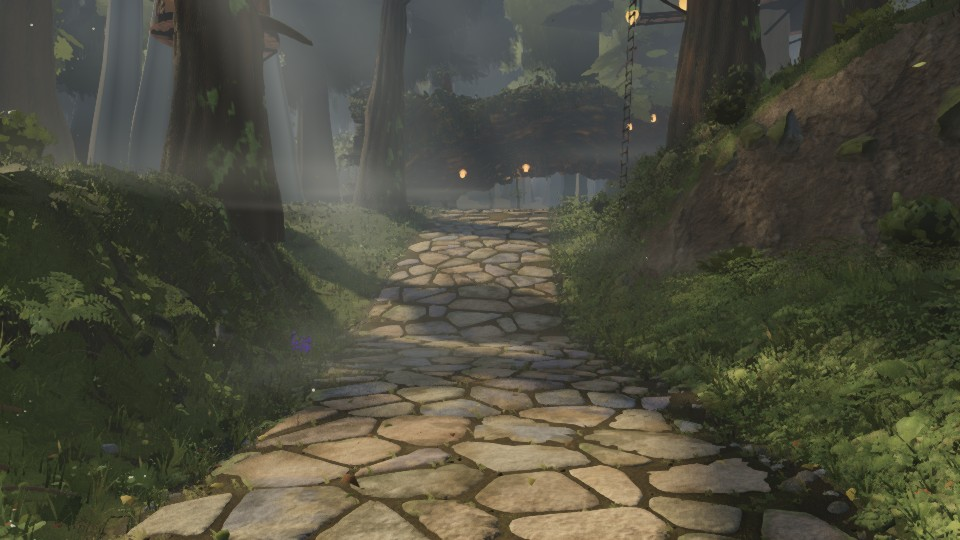
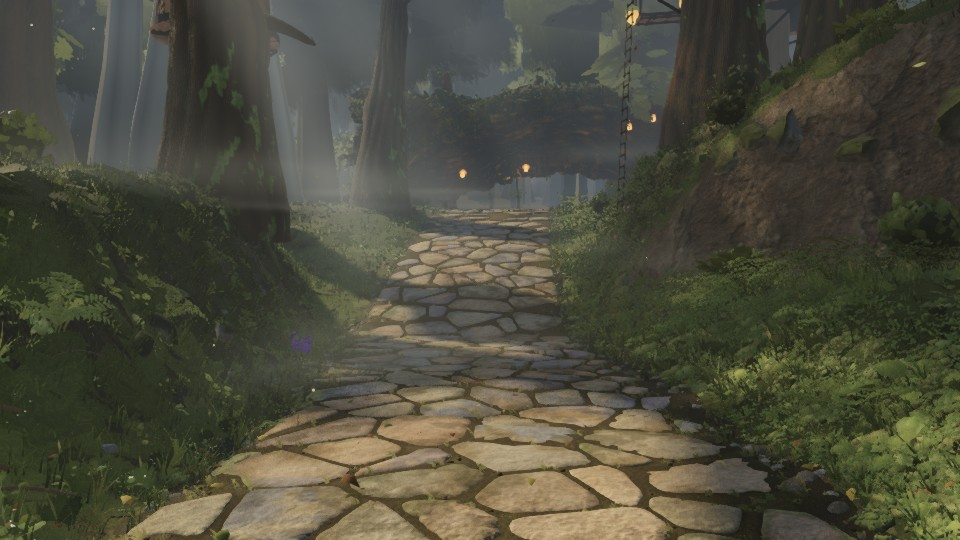
evidence: lane 3 final — the sheets re-rendered with the wider basal flare, and the hero views re-measured after the whole branch (A 0.36, B 0.83, C 0.17, D 1.00, F 0.35 mean levels; B and D are the two frames worth a look before merging, and every part of the move is column / emergent / giant bark)

diff --git a/art/environment/squad3-2026-09-23/README.md b/art/environment/squad3-2026-09-23/README.md
@@ -101,17 +101,34 @@ after pass 2, then after the whole branch:
 
 | view | mean \|Δ\| pass 2 | mean \|Δ\| final | px > 8 (final) | mean rgb (head → final) |
 | --- | --- | --- | --- | --- |
-| A_stairs | 0.08 | 0.33 | 1.05 % | 91.11/87.33/67.72 → 90.98/87.22/67.62 |
-| B_house | 0.26 | 0.74 | 2.76 % | 85.49/83.03/65.95 → 85.15/82.73/65.67 |
-| C_lookback | 0.09 | 0.15 | 0.69 % | 85.27/81.37/62.70 → 85.11/81.24/62.57 |
-| D_log | 0.48 | 0.88 | 3.47 % | 86.29/84.14/68.29 → 85.90/83.78/67.93 |
-| F_canopy | 0.20 | 0.26 | 0.77 % | 87.30/82.01/58.74 → 87.12/81.80/58.54 |
+| A_stairs | 0.08 | 0.36 | 1.17 % | 91.11/87.33/67.72 → 90.94/87.18/67.59 |
+| B_house | 0.26 | 0.83 | 3.14 % | 85.49/83.03/65.95 → 85.08/82.65/65.60 |
+| C_lookback | 0.09 | 0.17 | 0.74 % | 85.27/81.37/62.70 → 85.09/81.22/62.55 |
+| D_log | 0.48 | 1.00 | 4.07 % | 86.29/84.14/68.29 → 85.78/83.65/67.81 |
+| F_canopy | 0.20 | 0.35 | 1.25 % | 87.30/82.01/58.74 → 87.02/81.68/58.43 |
 
 The six views do not move much: even D — where the emergent's bole and the far wall's columns
-fill the left edge — keeps 96.5 % of its pixels within 8 levels and its frame mean within 0.4 of
-a level. At the lane's own poses the same measure reads 1.2–1.9 mean levels with 4.3–6.2 % of
+fill the left edge — keeps 95.9 % of its pixels within 8 levels and its frame mean within 0.5 of
+a level. At the lane's own poses the same measure reads 1.3–3.8 mean levels with 4.3–12.2 % of
 pixels past 8, i.e. the change is concentrated where a walker stands, which is where it was
-aimed.
+aimed. **This is a real move on B and D and fable-cursor should look at those two frames before
+merging**, but every part of it is the bark of a column, an emergent or a giant near base.
+
+| lane pose | mean \|Δ\| | px > 8 |
+| --- | --- | --- |
+| l3-owner-north (the owner's 06:50 pose) | 1.54 | 7.25 % |
+| l3-column-6m | 3.83 | 12.19 % |
+| l3-emergent-foot | 1.58 | 5.75 % |
+| l3-giant-roots | 1.25 | 4.33 % |
+| l3-column-10m | 2.38 | 8.29 % |
+
+## pass4 — the columns stand on a foot
+
+`column.ts` `flare` 0.85 → 1.05 falling at 5 instead of 6: 0.64 R extra at 2 m and 0.39 R at 4 m
+(was 0.47 / 0.26), so the buttress reads to ≈ 25 m instead of dying at 10. The ground-line radius
+goes to 2.05 R (1.44 m on the widest variant), still inside the seats' 1.6 m probe ring; the
+emergent (0.3) and the far hut's host keep their own. The root REACH is deliberately unchanged —
+the plain roots do not read the path mask, so they must not grow.
 
 ## pass3 — the columns stop being a rank of posts, and a bole reads round
 
